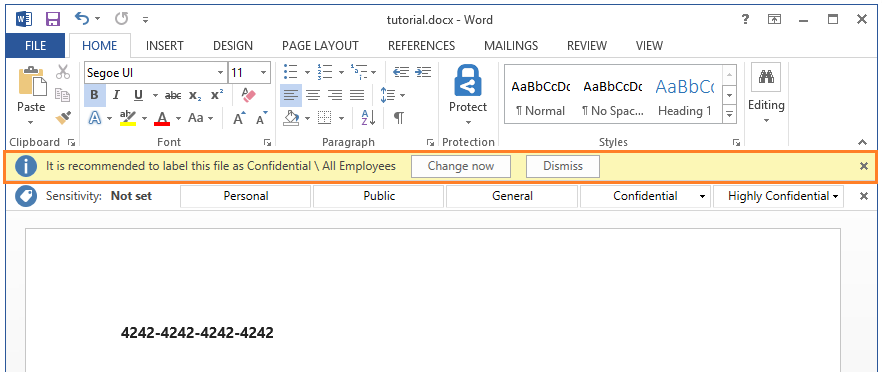
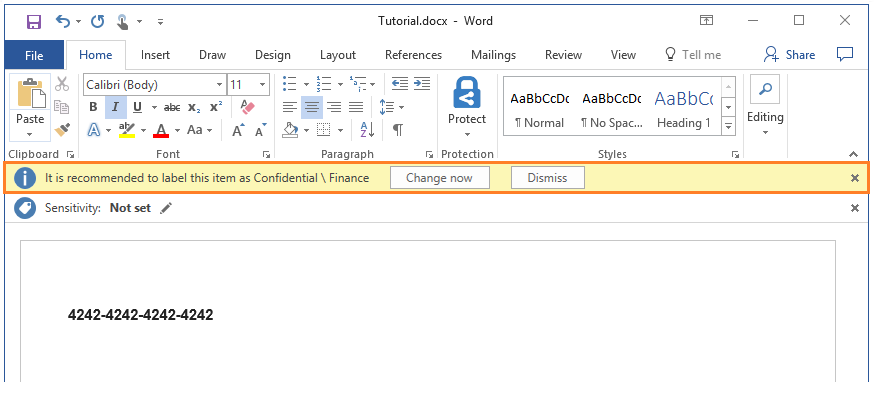
update pictures for tutorial & change permission level for test document

diff --git a/Azure-RMSDocs/get-started/infoprotect-tutorial-step2.md b/Azure-RMSDocs/get-started/infoprotect-tutorial-step2.md
@@ -45,7 +45,7 @@ Although Azure Information Protection comes with a default policy that you can u
     - Labels for classification: **Personal**, **Public**, **General**, **Confidential**, and **Highly Confidential**. The last two labels expand to show sub-labels, which provide examples of how a classification can have subcategories:
     
        > [!NOTE]
-       > Your default policy might look slightly different from one in this tutorial. For example, you have a label named **Internal** rather than **General**, and **Secret** rather than **Highly Confidential**. Maybe you do not have the sub-labels named **Recipients Only**. These changes are because there are different versions of the default policy, depending on when it was created for your tenant. Or, you might have edited it yourself, before you started the tutorial.
+       > Your default policy might look slightly different from one in this tutorial. For example, you have a label named **Internal** rather than **General**, and **Secret** rather than **Highly Confidential**. Maybe you do not have the sub-labels named **Recipients Only**, or you don't have any labels at all. These changes are because there are different versions of the default policy, depending on when it was created for your tenant. Or, you might have edited it yourself, before you started the tutorial.
        > 
        > If your default policy looks different, you can still use this tutorial, but be aware of these changes when you use the instructions and pictures that follow. If you want to modify your default policy so that it matches the current default policy, see [The default Azure Information Protection policy](../deploy-use/configure-policy-default.md).
     
@@ -72,8 +72,10 @@ For our tutorial, we'll change a couple of those policy settings so that you can
 We'll now create a new sub-label for **Confidential**.
 
 1. Right-click the **Confidential** label, and select **Add a sub-label**.
+    
+    If you do not have a label named **Confidential**, you can select another label or you can create a new label instead and still follow the tutorial with minor differences.
 
-2. On the **Sub-label** blade, specify the label name of **Finance** and add the following description: **Confidential data that contains financial information, which requires protection.**.
+2. On the **Sub-label** blade, specify the label name of **Finance** and add the following description: **Confidential data that contains financial information that is restricted to employees only**.
     
     This text describes how the selected label is intended to be used and it is visible to users as a tooltip, to help them decide which label to select.
 
@@ -89,11 +91,11 @@ We'll now create a new sub-label for **Confidential**.
     
     This option automatically selects all the users in your organization who can be granted permissions. However, you can see from the other options that you could browse and search for groups or users from your tenant. Or, when you select the **Enter details** option, you can specify individual email addresses or even all users from another organization.
 
-6. For the permissions, select **Co-Author** from the preset options. You see how this permission level automatically grants all the permissions listed except for Full Control:
+6. For the permissions, select **Reviewer** from the preset options. You see how this permission level automatically grants some permissions listed but not all permissions:
     
-    ![Granting Co-Author protection permissions for an Azure Information Protection label](../media/info-protect-protection-co-author.png)
+    ![Granting Co-Author protection permissions for an Azure Information Protection label](../media/info-protect-protection-reviewer.png)
     
-    You can select different permission levels or specify individual usage rights by using the **Custom** option. But for this tutorial, keep the **Co-Author** option. You can experiment with different permissions later and read how they restrict what the specified users can do with the protected document or email.
+    You can select different permission levels or specify individual usage rights by using the **Custom** option. But for this tutorial, keep the **Reviewer** option. You can experiment with different permissions later and read how they restrict what the specified users can do with the protected document or email.
 
 7. Click **OK** to close this **Add permissions** blade, and you see how the **Protection** blade is updated to reflect your configuration. For example:
     

diff --git a/Azure-RMSDocs/get-started/infoprotect-tutorial-step4.md b/Azure-RMSDocs/get-started/infoprotect-tutorial-step4.md
@@ -63,16 +63,13 @@ On the Information Protection bar, click the **Edit Label** icon again. But inst
 
 This time when you are prompted, type "This document doesn't need classifying" and click **Confirm**.  
 
-You see the **Sensitivity** value display **Not set**, which is what users see initially if you don't set a default label:
-
-![Azure Information Protection quick start tutorial step 4 - remove classification](../media/sensitivity-not-setv2.png)
-
+You see the **Sensitivity** value display **Not set**, which is what users see initially if you don't set a default label.
 
 ## To see a recommendation prompt for labeling and automatic protection
 
 1. In the Word document, type a valid credit card number, for example: **4242-4242-4242-4242**. 
 
-2. Save the document locally (use any file name). 
+2. Save the document (use any file name, any location). 
 
 3. You now see a prompt to apply the label that you configured for protection when credit card numbers are detected. If we didn't agree with the recommendation, our policy setting lets us reject it, by selecting **Dismiss**. Giving a recommendation but letting a user override it helps to reduce false positives when you're using automatic classification. For this tutorial, click **Change now**.
 
@@ -80,7 +77,7 @@ You see the **Sensitivity** value display **Not set**, which is what users see i
 
     In addition to the document now showing that our configured label is applied (for example, **Confidential \ Finance**), you immediately see the watermark of your organization name across the page, and the footer of **Classified as Confidential** is also applied. 
 
-    The document is also protected with the Azure Rights Management protection that you specified. You can confirm this protection when you click the **File** tab and view the information for **Protect Document**. 
+    The document is also protected with the permissions that you specified for this label. You can confirm that the document is protected by clicking the **File** tab and view the information for **Protect Document**. You see that the document is protected by **Confidential \ Finance** and the label description. Because of the protection configuration of the label, only employees can open the document and some actions are restricted for them. For example, because they do not have the Print and the Copy and extract content permissions, they cannot print the document or copy from it. Such restrictions help to prevent data loss. As the owner of the document, you can print it and copy from it, but if you email the document to another user in your organization, they cannot do these actions.
 
 4. You can now close this document.
 
